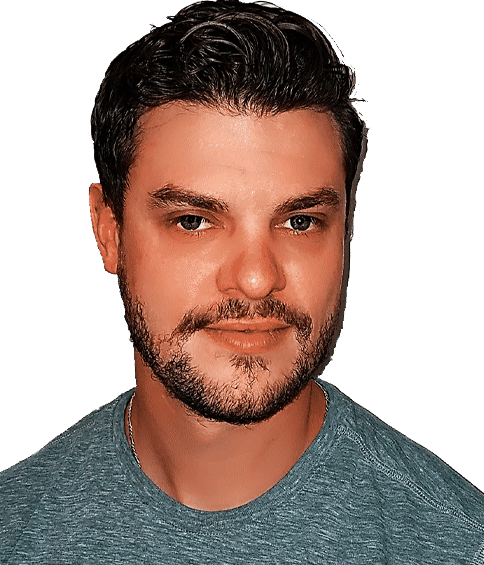
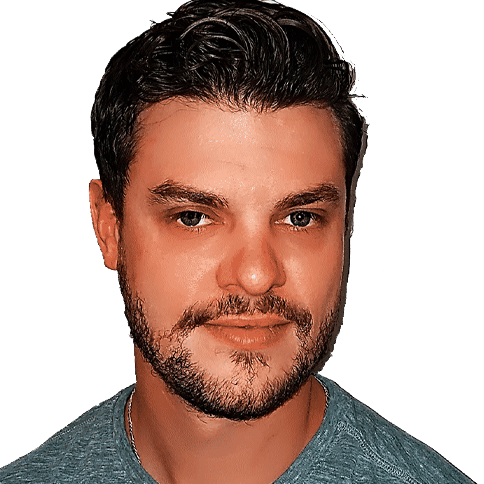
Fixed speaker headshots so they're not being cut off.

diff --git a/content/events/2021-buffalo/speakers/dewan-ahmed.md b/content/events/2021-buffalo/speakers/dewan-ahmed.md
@@ -3,7 +3,7 @@ Title = "Dewan Ahmed"
 Twitter = "DewanAhmed"
 LinkedIn = "https://www.linkedin.com/in/diahmed"
 Website = "https://www.dewanahmed.com/"
-image = "dewan-ahmed.jpeg"
+image = "dewan-ahmed.png"
 type = "speaker"
 linktitle = "dewan-ahmed"
 

diff --git a/content/events/2021-buffalo/speakers/aaron-aldrich.md b/content/events/2021-buffalo/speakers/aaron-aldrich.md
@@ -2,7 +2,7 @@
 Title = "Aaron Aldrich"
 Twitter = "crayzeigh"
 Website = "http://crayzeigh.com"
-image = "aaron-aldrich.jpeg"
+image = "aaron-aldrich.png"
 type = "speaker"
 linktitle = "aaron-aldrich"
 

diff --git a/content/events/2021-buffalo/speakers/pj-hagerty.md b/content/events/2021-buffalo/speakers/pj-hagerty.md
@@ -2,7 +2,7 @@
 Title = "PJ Hagerty"
 Twitter = "aspleenic"
 Website = "https://mattermost.com/"
-image = "pj-hagerty.jpeg"
+image = "pj-hagerty.png"
 type = "speaker"
 linktitle = "pj-hagerty"
 

diff --git a/content/events/2021-buffalo/speakers/lynn-catalano.md b/content/events/2021-buffalo/speakers/lynn-catalano.md
@@ -1,7 +1,7 @@
 +++
 Title = "Lynn Catalano"
 Website = "http://www.lynncatalano.com"
-image = "lynn-catalano.jpeg"
+image = "lynn-catalano.png"
 type = "speaker"
 linktitle = "lynn-catalano"
 

diff --git a/content/events/2021-buffalo/speakers/jerren-every.md b/content/events/2021-buffalo/speakers/jerren-every.md
@@ -1,6 +1,6 @@
 +++
 Title = "Jerren Every"
-image = "jerren-every.jpeg"
+image = "jerren-every.png"
 type = "speaker"
 linktitle = "jerren-every"
 
